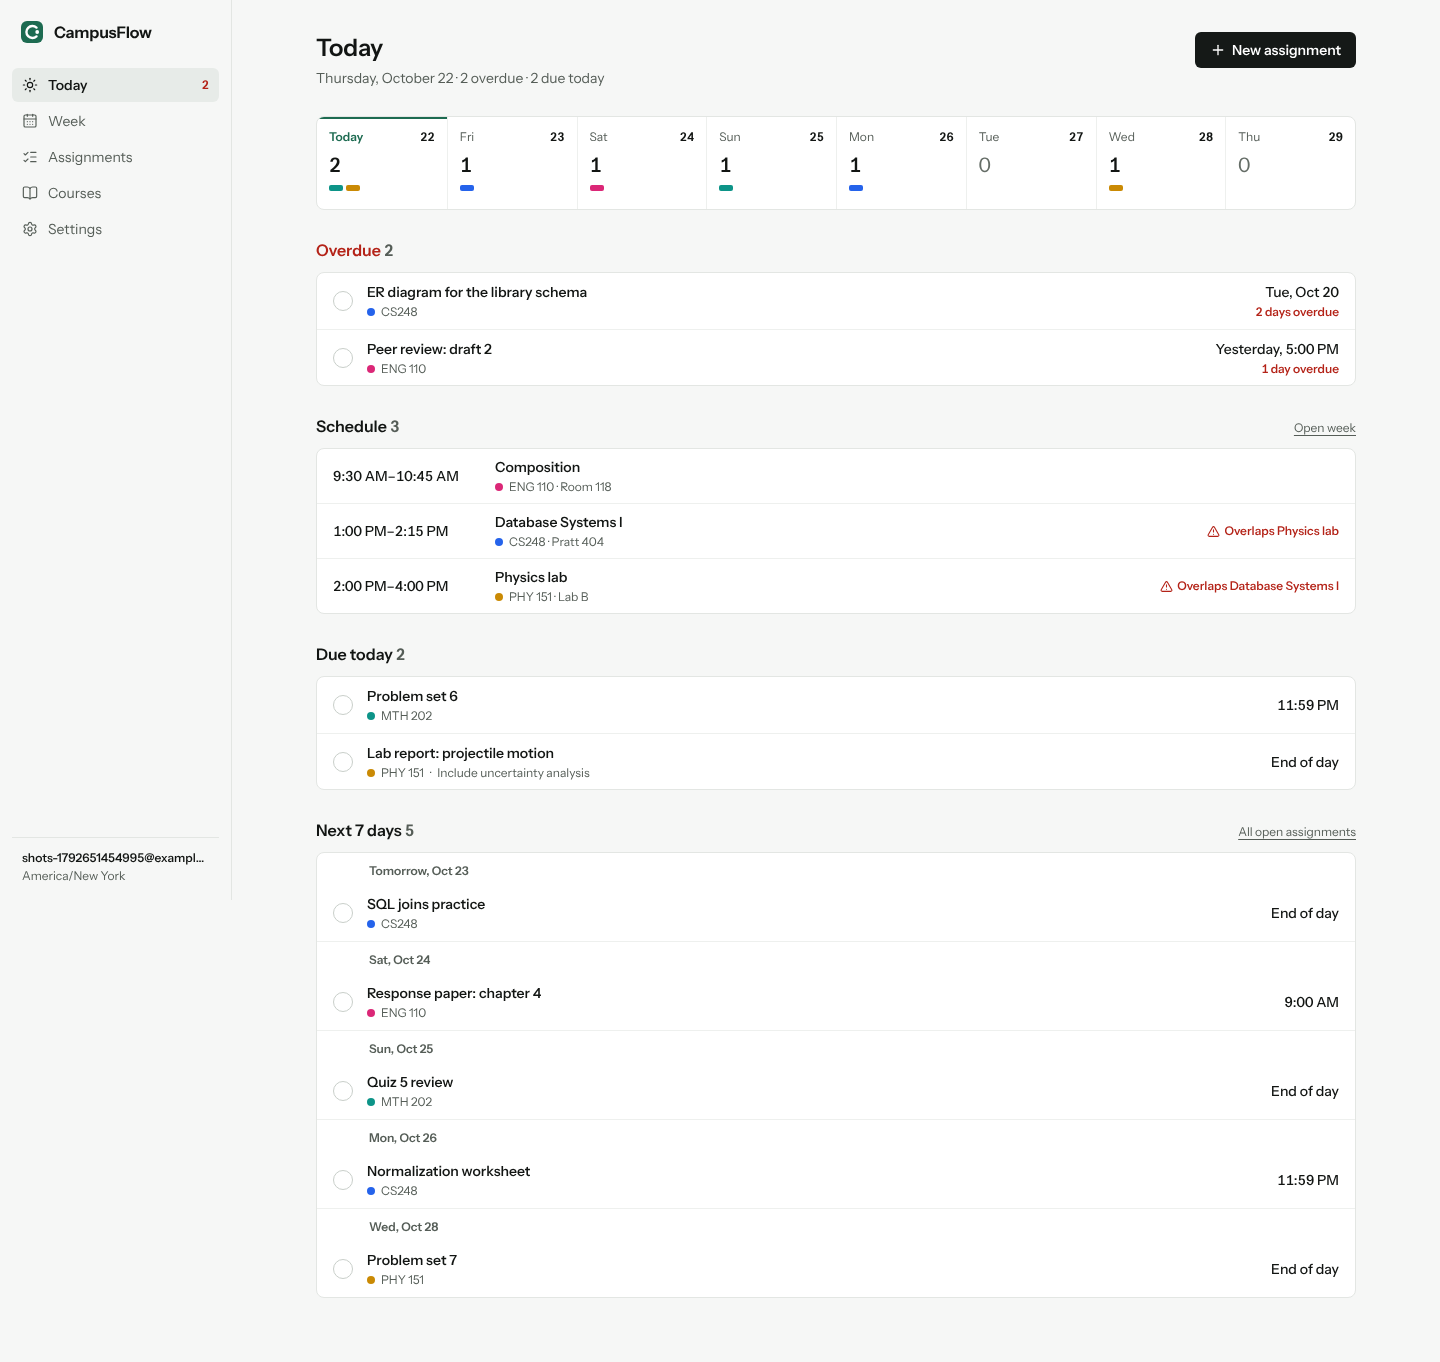
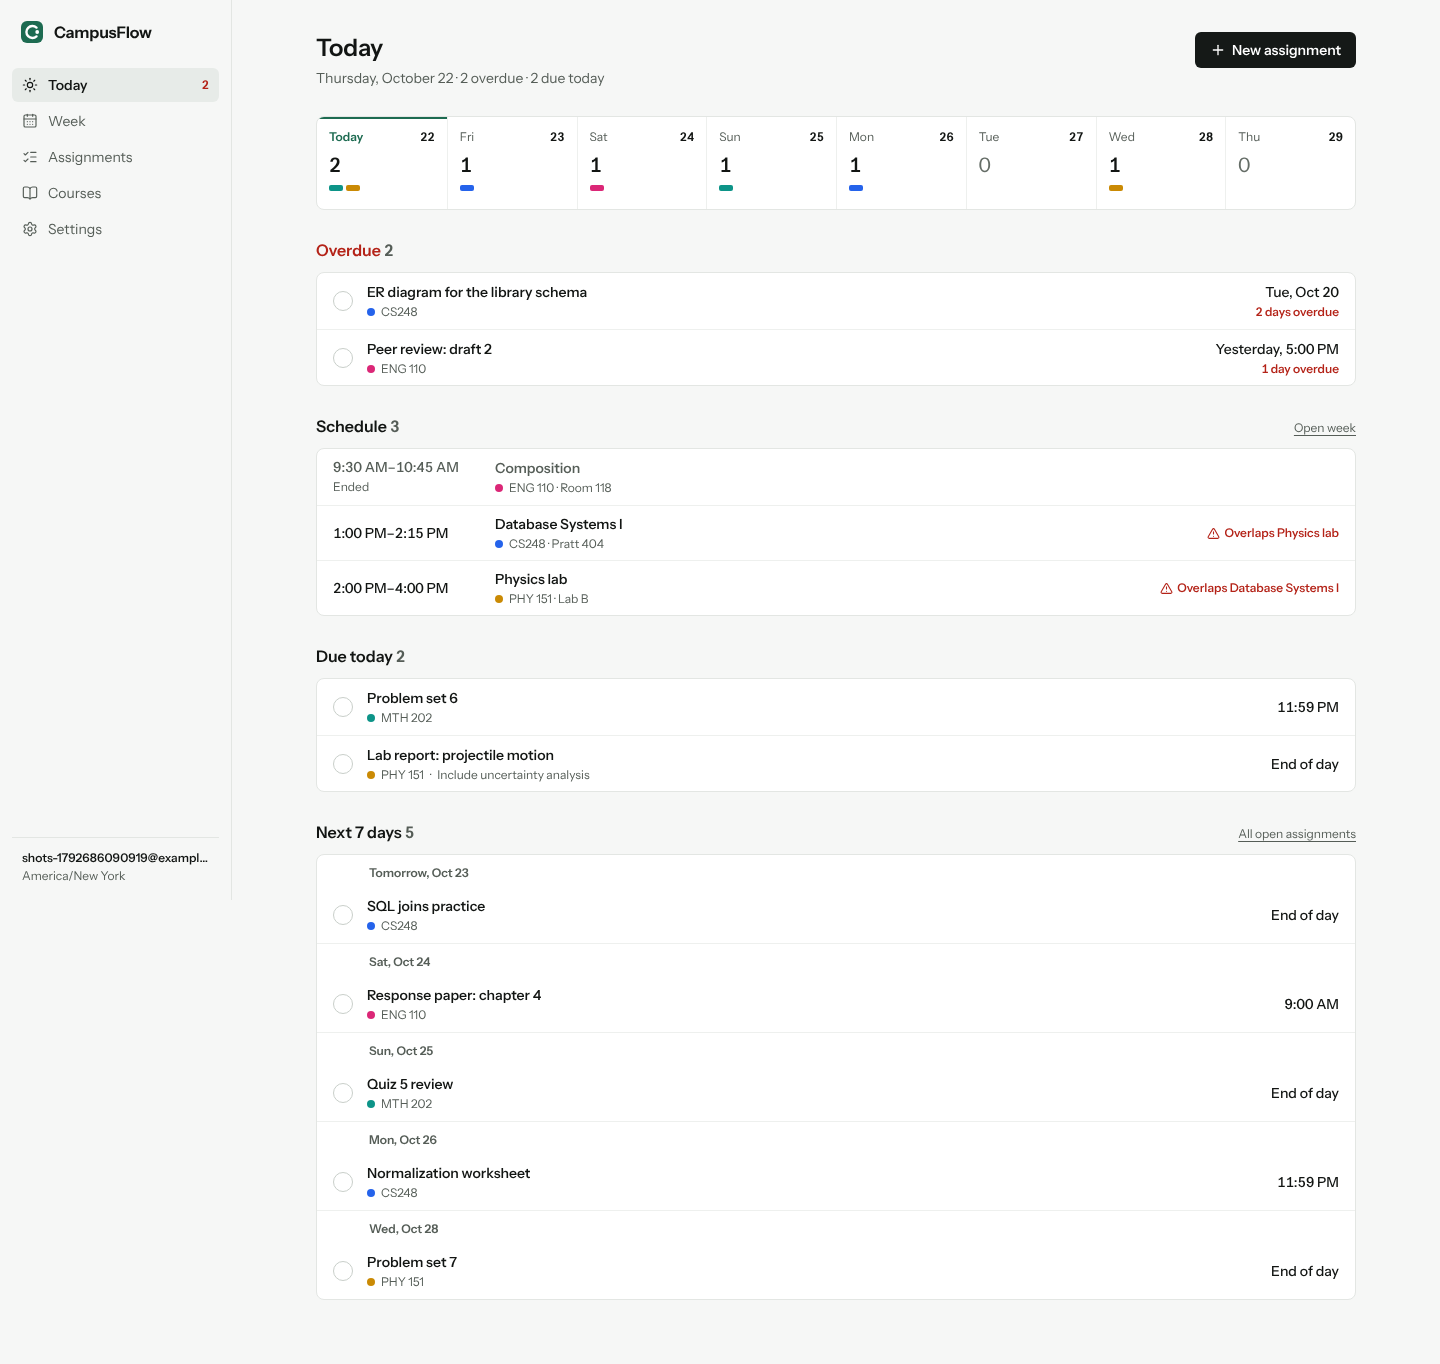
Scan every page and dialog for WCAG 2.2 AA issues with axe
A Playwright test runs axe-core (pinned to 4.13.0) on sign-in,
registration, every signed-in page, the assignment dialog, and the event
dialog's conflict warning, in light and dark mode at desktop and phone
widths: 44 scans per run, failing CI on any violation. README documents
what it covers and what still needs a manual pass.

Claude-Session: https://claude.ai/code/session_01KrdEjGrntDcUnF16kqxGfm

diff --git a/frontend/e2e/accessibility.spec.ts b/frontend/e2e/accessibility.spec.ts
@@ -1,0 +1,114 @@
+import AxeBuilder from '@axe-core/playwright'
+import { expect, test, type Page } from '@playwright/test'
+
+// Automated WCAG 2.2 AA check (axe-core) of every page and dialog, in light and
+// dark mode, at desktop and phone widths. It catches what code can catch:
+// missing labels, contrast, ARIA misuse, duplicate IDs, heading order. Screen
+// reader and keyboard flows still need a human; see the README.
+
+const WCAG = ['wcag2a', 'wcag2aa', 'wcag21a', 'wcag21aa', 'wcag22aa']
+
+async function expectNoViolations(page: Page, where: string) {
+  const { violations } = await new AxeBuilder({ page }).withTags(WCAG).analyze()
+  const summary = violations.map(
+    (v) => `${v.id} (${v.impact}): ${v.help}\n    ${v.nodes.map((n) => n.target.join(' ')).join('\n    ')}`,
+  )
+  expect.soft(summary, `${where} has accessibility violations`).toEqual([]) // soft: report every page, not just the first
+}
+
+async function seed(page: Page) {
+  const email = `a11y-${Date.now()}-${Math.random().toString(36).slice(2, 7)}@example.edu`
+  const r = await page.request.post('/api/auth/register', {
+    data: { email, password: 'correct horse battery staple', time_zone: 'America/New_York' },
+  })
+  expect(r.ok()).toBe(true)
+  const headers = { 'X-CSRF-Token': (await r.json()).csrf_token }
+  const today = new Intl.DateTimeFormat('en-CA', { timeZone: 'America/New_York' }).format(new Date())
+  const day = (n: number) => new Date(Date.parse(today) + n * 86_400_000).toISOString().slice(0, 10)
+  const post = async (path: string, data: object) => {
+    const res = await page.request.post(path, { data, headers })
+    expect(res.ok(), `${path} ${res.status()}`).toBe(true)
+    return res.json()
+  }
+  const db = await post('/api/courses', { name: 'Database Systems I', code: 'CS248', color: '#2563eb' })
+  const calc = await post('/api/courses', { name: 'Calculus II', code: 'MTH 202', color: '#0d9488' })
+  await post('/api/assignments', { course_id: db.id, title: 'ER diagram', due_date: day(-1) })
+  await post('/api/assignments', { course_id: calc.id, title: 'Problem set 6', due_date: day(0), due_time: '23:59' })
+  await post('/api/assignments', { course_id: db.id, title: 'SQL joins practice', due_date: day(2) })
+  const term = { first_date: day(-30), last_date: day(30) }
+  const everyDay = [0, 1, 2, 3, 4, 5, 6]
+  // Two classes that overlap every day, so conflict styling is always on screen.
+  for (const [title, course_id, start_time, end_time] of [
+    ['Calculus II', calc.id, '10:00', '11:00'],
+    ['Database Systems I', db.id, '10:30', '11:45'],
+  ] as const) {
+    await post('/api/events', {
+      title,
+      kind: 'class',
+      course_id,
+      allow_conflicts: true,
+      schedule: { type: 'weekly', weekdays: everyDay, start_time, end_time, ...term },
+    })
+  }
+  // An overnight event, for the dashed "continues" edges.
+  await post('/api/events', {
+    title: 'Late lab write-up',
+    kind: 'study',
+    schedule: { type: 'once', start_date: day(0), start_time: '22:00', end_date: day(1), end_time: '00:45' },
+  })
+}
+
+const PAGES = [
+  ['Today', '/'],
+  ['Week grid', '/week?view=week'],
+  ['Week agenda', '/week?view=agenda'],
+  ['Assignments', '/assignments'],
+  ['Done assignments', '/assignments?status=completed'],
+  ['Courses', '/courses'],
+  ['Settings', '/settings'],
+] as const
+
+for (const colorScheme of ['light', 'dark'] as const) {
+  for (const [size, viewport] of [
+    ['desktop', { width: 1440, height: 900 }],
+    ['phone', { width: 390, height: 844 }],
+  ] as const) {
+    test.describe(`accessibility, ${colorScheme}, ${size}`, () => {
+      test.use({ colorScheme, viewport, reducedMotion: 'reduce' })
+
+      test('signed-out pages', async ({ page }) => {
+        for (const path of ['/login', '/register']) {
+          await page.goto(path)
+          await expect(page.getByRole('heading', { level: 1 })).toBeVisible()
+          await expectNoViolations(page, path)
+        }
+      })
+
+      test('every signed-in page and dialog', async ({ page }) => {
+        await seed(page)
+        for (const [name, path] of PAGES) {
+          await page.goto(path)
+          await page.waitForLoadState('networkidle')
+          await expect(page.getByRole('heading', { level: 1 })).toBeVisible()
+          await expectNoViolations(page, name)
+        }
+
+        await page.goto('/')
+        await page.getByRole('button', { name: 'New assignment' }).first().click()
+        await expect(page.getByRole('dialog')).toBeVisible()
+        await expectNoViolations(page, 'New assignment dialog')
+
+        // The schedule-conflict warning inside the event dialog.
+        await page.goto('/week')
+        await page.getByRole('button', { name: 'New event' }).first().click()
+        const dialog = page.getByRole('dialog', { name: 'New event' })
+        await dialog.getByLabel('Title').fill('Advisor meeting')
+        await dialog.getByLabel('Starts').fill('10:15')
+        await dialog.getByLabel('Ends').fill('10:45')
+        await dialog.getByRole('button', { name: 'Add event' }).click()
+        await expect(dialog.getByRole('button', { name: 'Save anyway' })).toBeVisible()
+        await expectNoViolations(page, 'Event dialog with conflict warning')
+      })
+    })
+  }
+}

diff --git a/README.md b/README.md
@@ -134,7 +134,7 @@ Exactly one of `due_date` or `due_at` is set; a check constraint enforces it. Li
 | Database | PostgreSQL, SQLAlchemy, Alembic, psycopg | 16, 2.1, 1.20, 3.3 |
 | Validation | Pydantic, pydantic-settings | 2.14, 2.16 |
 | Passwords | argon2-cffi (Argon2id) | 25.1 |
-| Tests | pytest, Playwright | 9.1, 1.64 |
+| Tests | pytest, Playwright, axe-core (`@axe-core/playwright`) | 9.1, 1.64, 4.13 |
 | Tooling | uv, ruff, mypy (strict), oxlint, Prettier | 0.11, 0.17, 2.4, 1.x, 3.x |
 
 Exact versions are pinned in `backend/uv.lock` and `frontend/package-lock.json`. Node is pinned to 24 in `frontend/.nvmrc`. Node 24 is the newest LTS line today; Node 26 becomes Active LTS on October 27, 2026, and moving to it is a one-line change.
@@ -211,6 +211,8 @@ What the 83 backend tests cover (98% line coverage):
 Seven frontend unit tests cover the week grid's geometry: overnight events split across two days, overlapping events side by side, adjacent ones not, and the visible hour range.
 
 The Playwright test walks one student through the app: register, add a course, add an overdue assignment, trigger the duplicate warning and the discard prompt, add a weekly class and a clashing meeting on the calendar, save past the conflict warning and see both flagged in the agenda, search, complete, reload, sign out, and sign back in. A second test checks the wrong-password error.
+
+An automated accessibility scan ([`frontend/e2e/accessibility.spec.ts`](frontend/e2e/accessibility.spec.ts)) runs [axe-core](https://github.com/dequelabs/axe-core) against WCAG 2.2 AA on every page and dialog (sign-in and registration, Today, the week grid and agenda, assignments, courses, settings, the assignment dialog, and the event dialog showing a conflict warning) in light and dark mode, at desktop and phone widths: 44 scans per run. Any violation fails CI. Its first run found three real problems, all fixed: finished classes on Today were faded with opacity, which dropped their text below 4.5:1 contrast; deadline chips were smaller than the 24px minimum touch target; and the phone's "New" button had no clear name for screen readers. A scanner can't judge everything (whether a label makes sense, or whether a flow works by keyboard alone), so those still need a manual pass.
 
 ## Key decisions
 
@@ -296,7 +298,7 @@ The interface follows three design skills: Impeccable's rules for product UI, Em
 - **Color:** reserved for course identity, overdue status, and the single near-black primary action. Light and dark themes follow the OS.
 - **Motion:** feedback only: buttons press to 0.97 scale, dialogs enter in 180ms with a strong ease-out, and everything respects reduced-motion settings.
 - **States:** every block has real loading skeletons, empty states that say what to do next, and in-place errors with Retry.
-- **Accessibility:** visible focus rings, labeled fields, a skip link, keyboard-reachable everything, and 4.5:1 text contrast in both themes.
+- **Accessibility:** visible focus rings, labeled fields, a skip link, keyboard-reachable everything, 4.5:1 text contrast in both themes, and 24px minimum touch targets, checked automatically by axe on every push.
 - **Forms never lose input:** a failed save keeps every field, and closing a form with edits asks first.
 
 The week grid follows the same rules: course colors appear only as event tints and deadline dots, conflicts get a red edge and a warning icon (never color alone), and phones get the agenda, a list that works with screen readers, instead of a cramped grid.
@@ -309,6 +311,7 @@ The Taste inspector reports 0 failures on every screen. The main remaining warni
 - Only weekly repetition. A series can run at most one year, and a one-time event at most 14 days.
 - Events of archived courses are hidden from the calendar until the course is restored.
 - Phones show the week as an agenda list only; the grid needs a wider screen.
+- Accessibility is scanned automatically, but hasn't yet had a full manual pass with a screen reader (VoiceOver, NVDA).
 - Reminder preferences are saved but not delivered yet (Milestone 3). The form says so.
 - The "last course used" memory is per device (browser storage), not per account.
 - Registering with an email that already exists says so. This lets someone check whether an address has an account, a tradeoff accepted for clearer sign-up errors. Registration is rate limited per IP.
